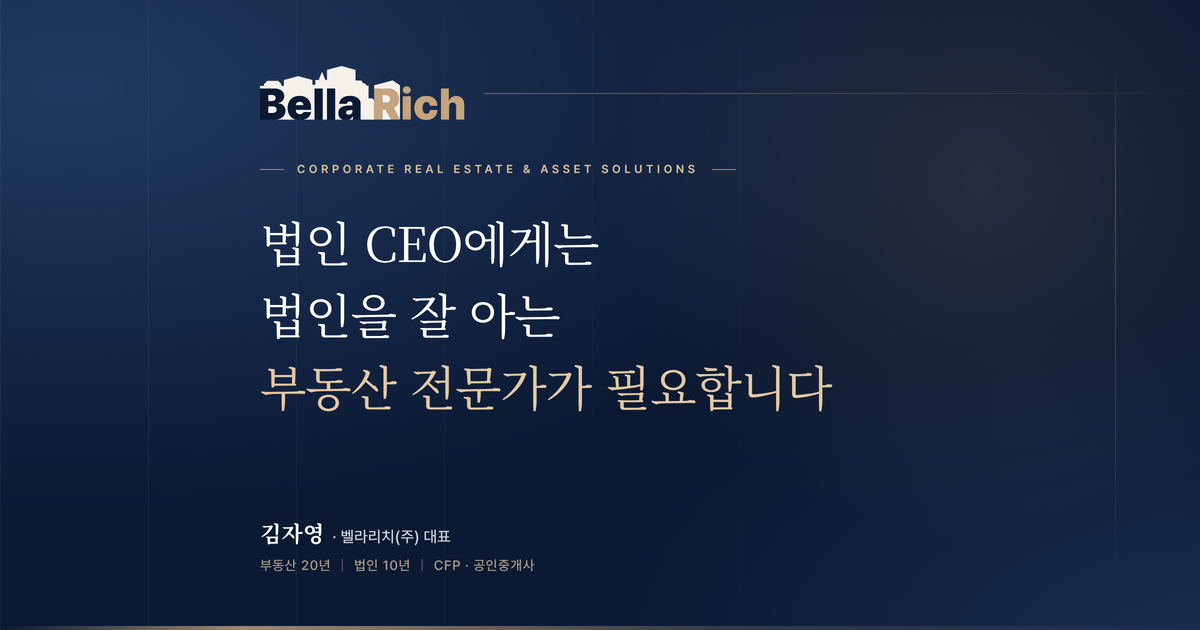
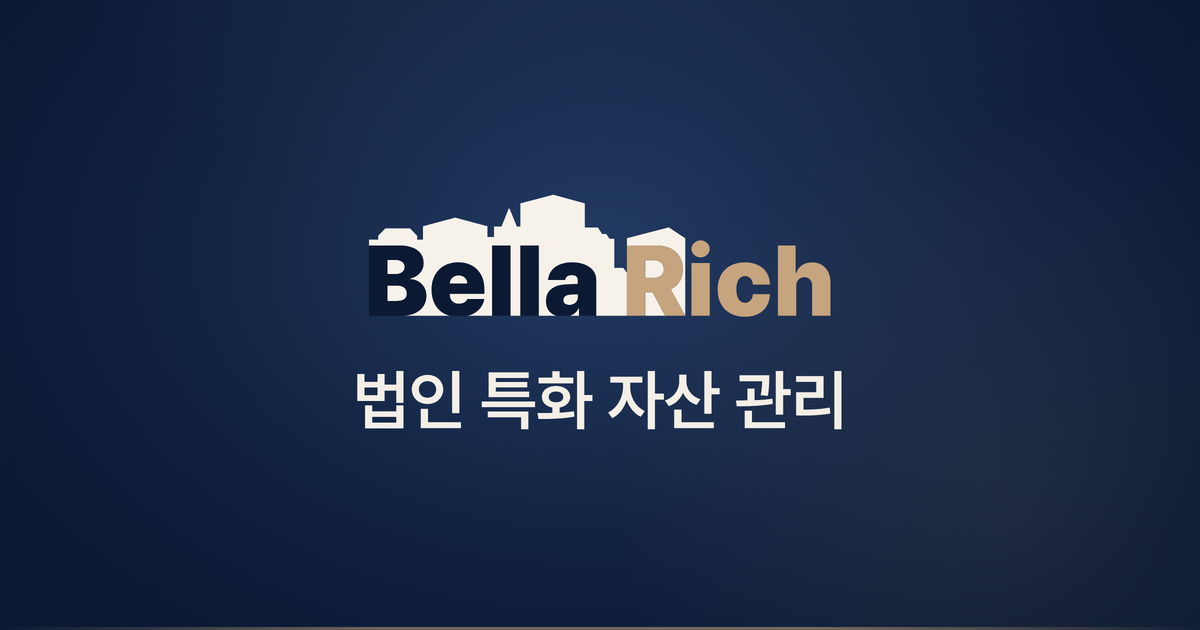
홈페이지 링크 미리보기 단순형 시안1 반영(og-image.png·alt) + 전자명함 미리보기는 기존 명함 이미지 유지(새 시안은 선택 후 교체)

diff --git a/index.html b/index.html
@@ -16,11 +16,12 @@
 <meta property="og:image:width" content="1200">
 <meta property="og:image:height" content="630">
 <meta property="og:image:type" content="image/png">
-<meta property="og:image:alt" content="벨라리치(주) — 법인 CEO에게는 법인을 잘 아는 부동산 전문가가 필요합니다">
+<meta property="og:image:alt" content="벨라리치(주) — 법인 특화 자산 관리">
 <meta name="twitter:card" content="summary_large_image">
 <meta name="twitter:title" content="벨라리치(주) | 법인과 부동산을 잇는 1:1 마스터플랜">
 <meta name="twitter:description" content="법인특화 부동산자산관리 · 투자플랜 · 보유플랜 · 가업·자산승계 · 법인재무 경영지원">
 <meta name="twitter:image" content="https://bellarich.co.kr/og-image.png">
+<meta name="twitter:image:alt" content="벨라리치(주) — 법인 특화 자산 관리">
 <link rel="canonical" href="https://bellarich.co.kr/">
 <link rel="icon" href="/favicon.ico" sizes="any">
 <link rel="icon" type="image/png" sizes="32x32" href="/assets/icon-32.png">

diff --git a/card/index.html b/card/index.html
@@ -18,7 +18,7 @@
 <meta property="og:image:width" content="1200" />
 <meta property="og:image:height" content="630" />
 <meta property="og:image:type" content="image/jpeg" />
-<meta property="og:image:alt" content="벨라리치(주) 김자영 대표 — 법인 자산관리·부동산 전문가" />
+<meta property="og:image:alt" content="벨라리치(주) 김자영 대표 명함 — 인쇄용 명함 앞면" />
 <meta name="twitter:card" content="summary_large_image" />
 <meta name="twitter:title" content="김자영 대표 | 벨라리치(주) 전자명함" />
 <meta name="twitter:description" content="법인을 아는 부동산 전문가, 부동산을 아는 법인 전문가 — 벨라리치(주) 김자영 대표." />
